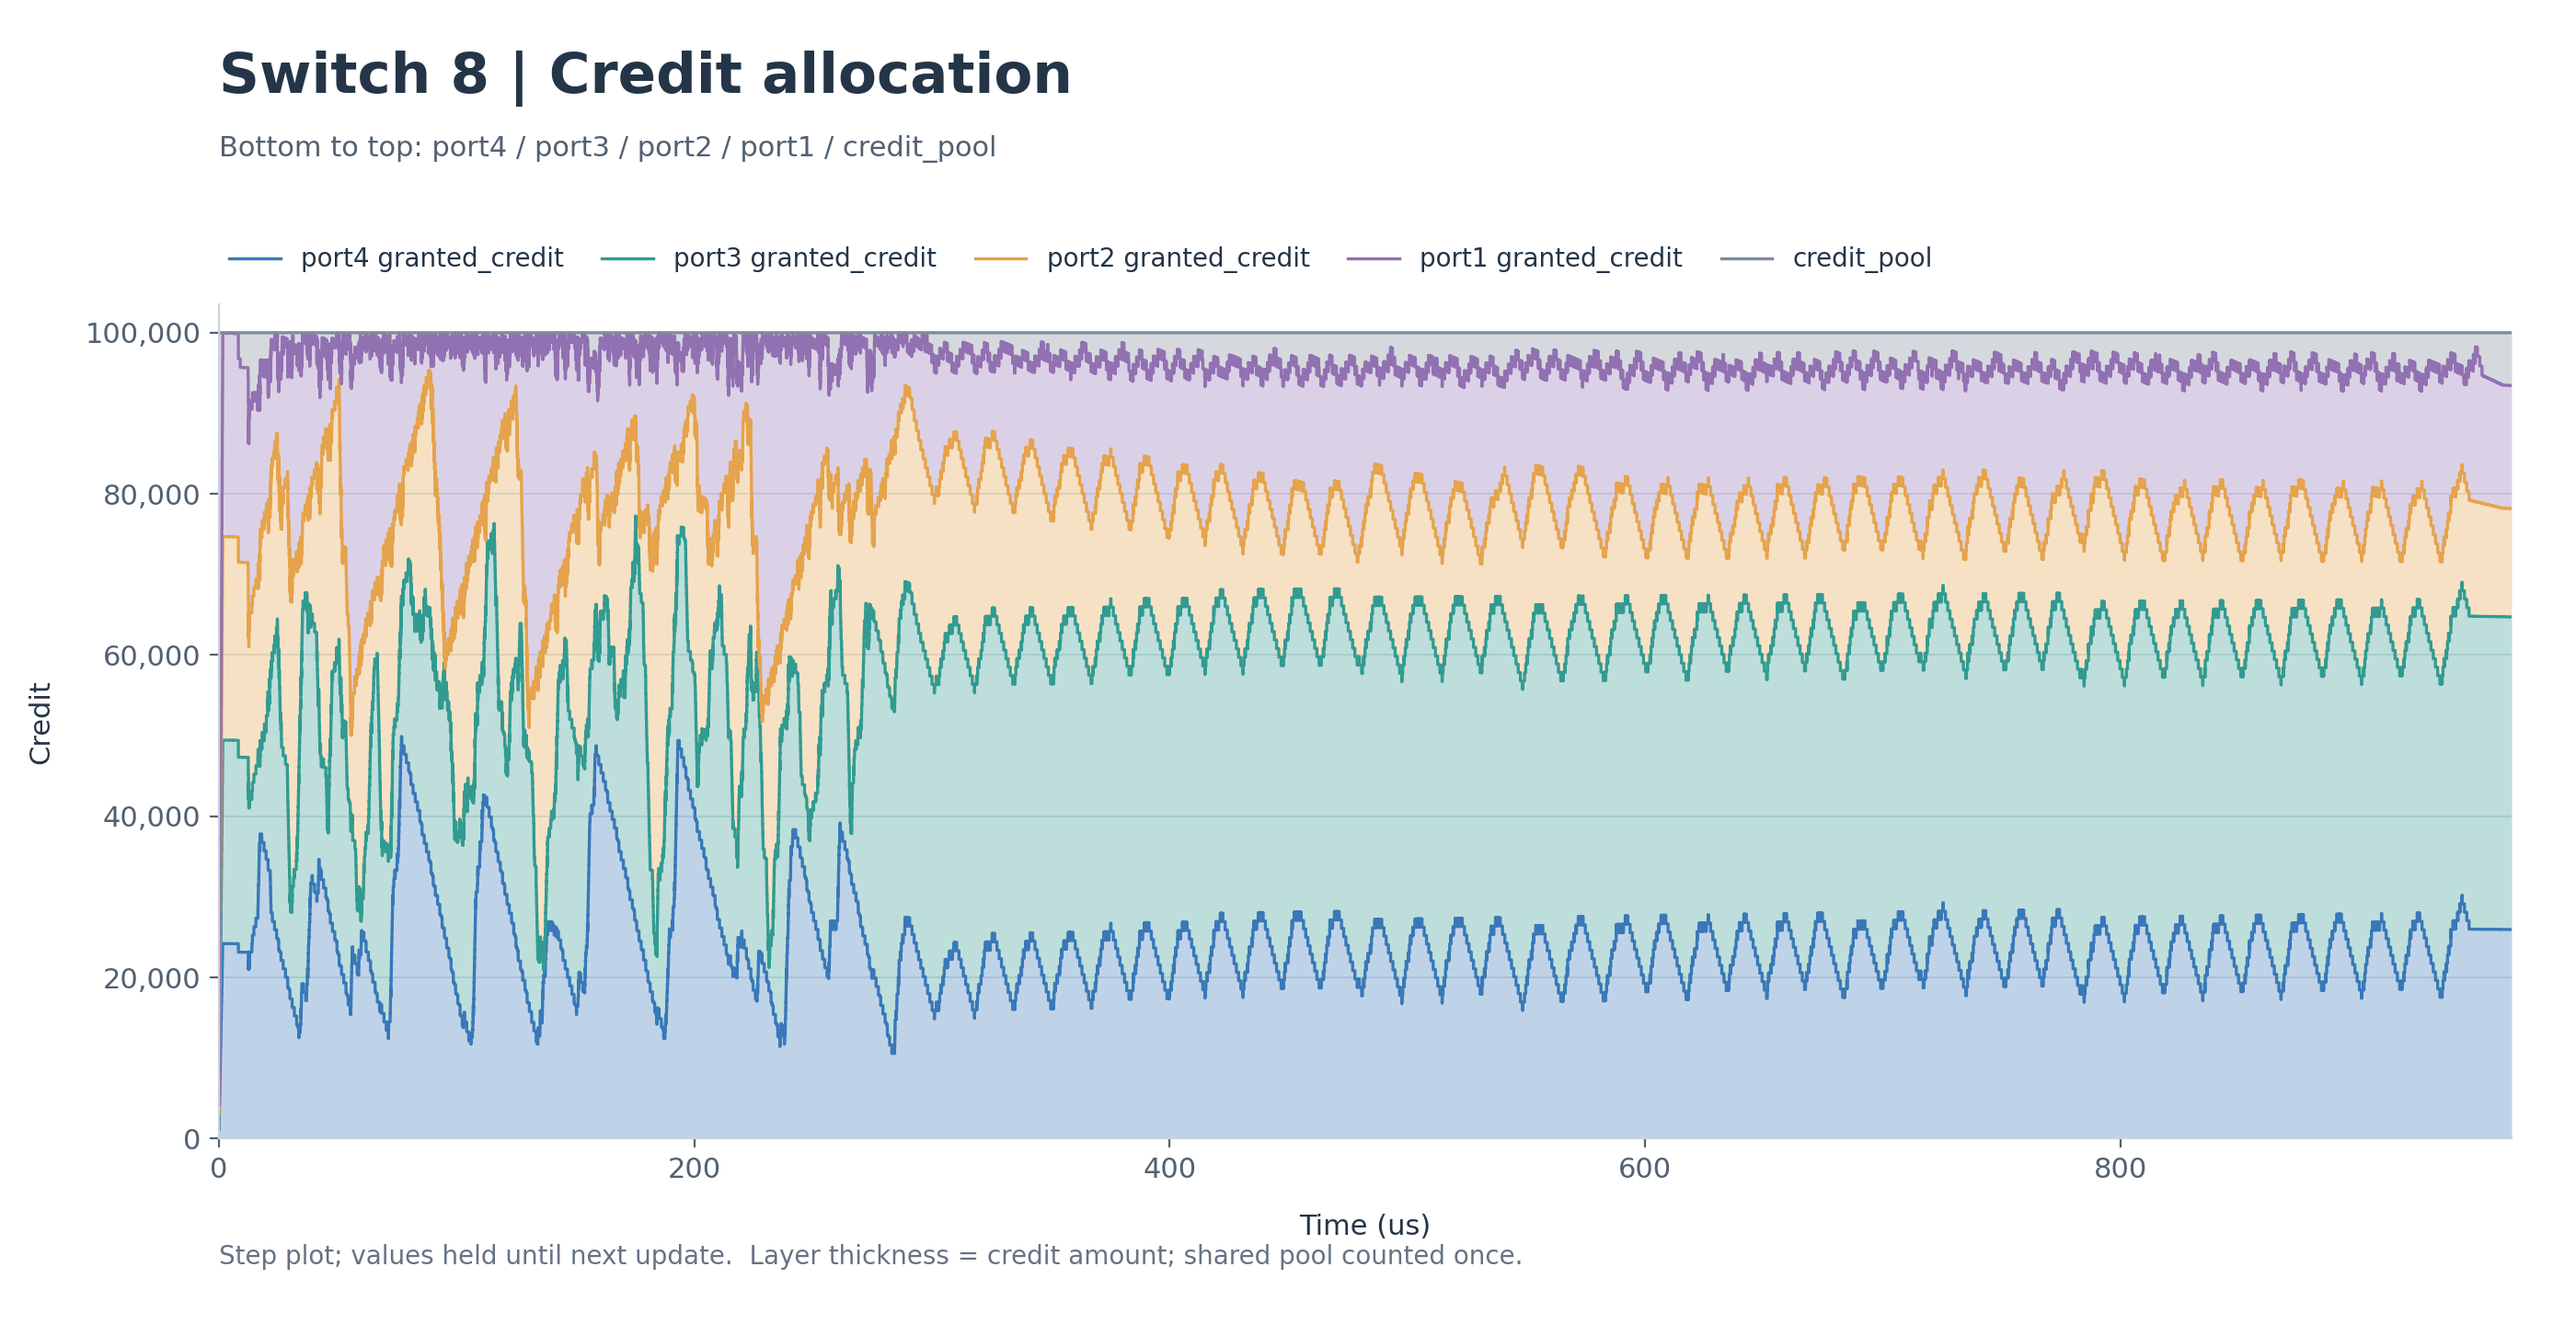
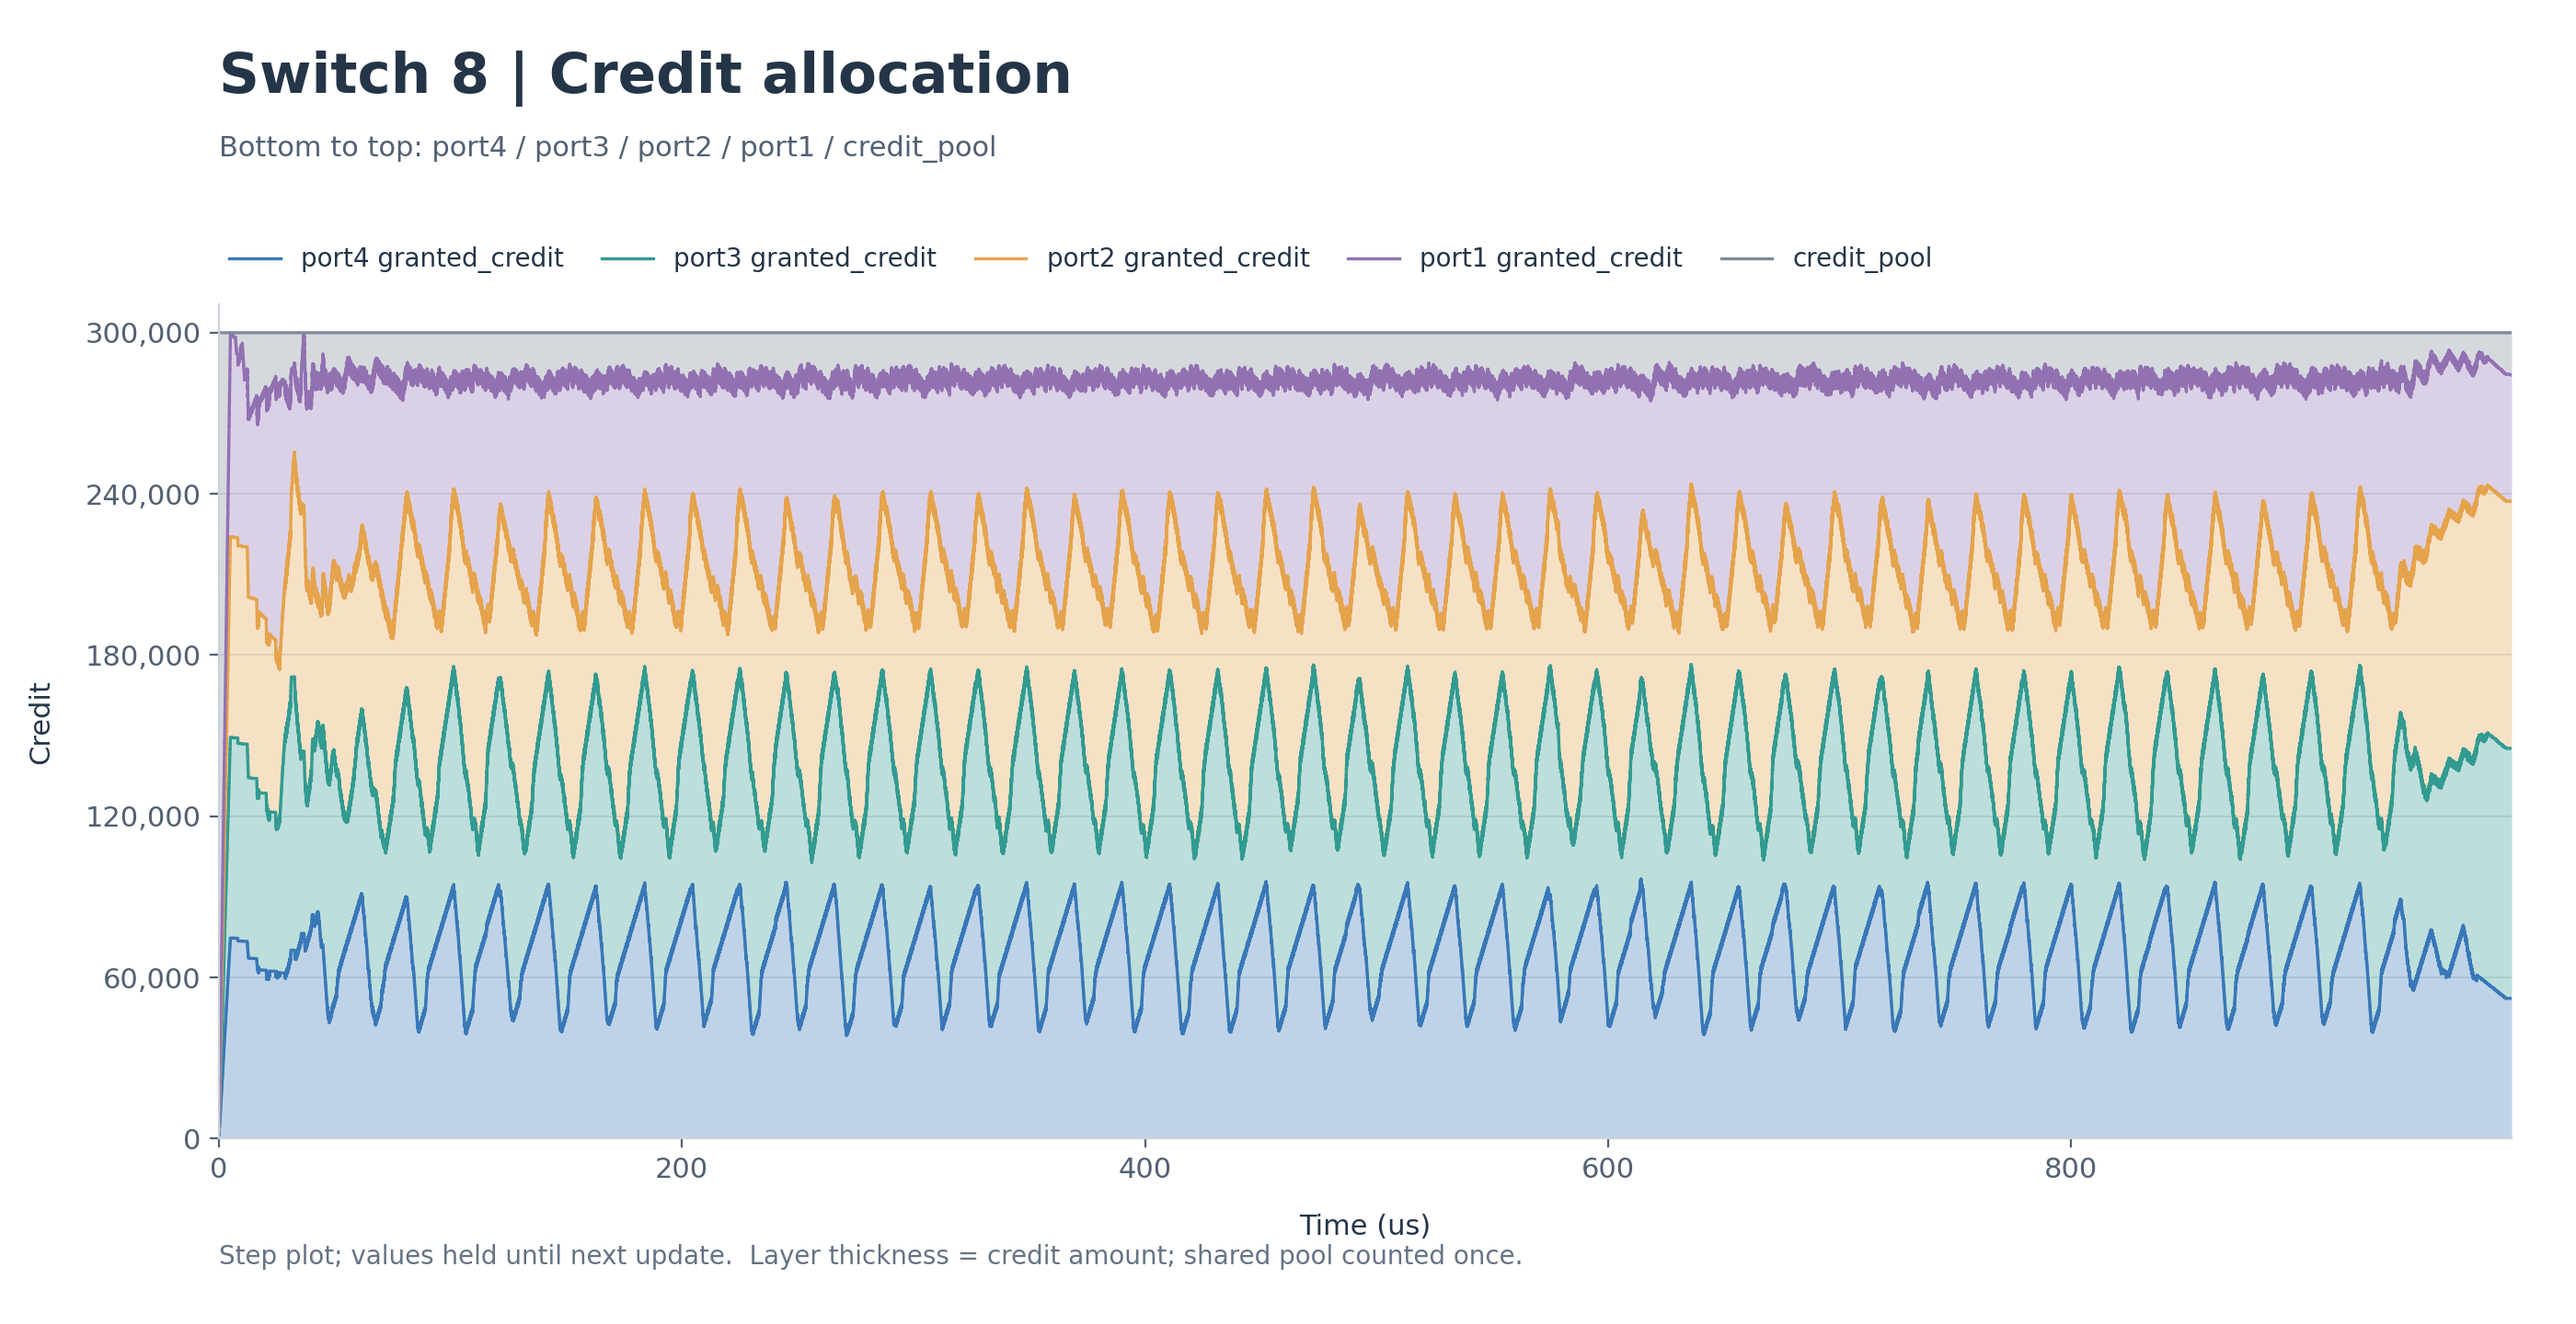
trival update

diff --git a/ns-3/simulator/ns-3-buffer-oversubscription/examples/SharedCredit-FC/2-star-topo/2-star-topo.cc b/ns-3/simulator/ns-3-buffer-oversubscription/examples/SharedCredit-FC/2-star-topo/2-star-topo.cc
@@ -33,7 +33,7 @@ NS_LOG_COMPONENT_DEFINE("GENERIC_SIMULATION");
 uint32_t cc_mode = 0;
 bool enable_qcn = true;
 uint32_t packet_payload_size = 1000, l2_chunk_size = 0, l2_ack_interval = 0;
-double simulator_stop_time = 3.01;
+double simulator_stop_time = 0.001;
 std::string data_rate, link_delay, topology_file, flow_file, trace_file, trace_output_file;
 std::string fct_output_file = "fct.txt";
 std::string pfc_output_file = "pfc.txt";
@@ -1607,7 +1607,7 @@ int main(int argc, char *argv[])
 	// uint32_t step_bytes = packet_size * 1;
 	// config switch
 	// The switch mmu runs Dynamic Thresholds (DT) by default.
-	buffer_size = (2 *100 * 2000 * 2 / 8);
+	buffer_size = (6 *100 * 2000 * 2 / 8);
 	std::cout << "buffer_size : " << buffer_size << std::endl;
 	for (uint32_t i = 0; i < node_num; i++) {
 		if (n.Get(i)->GetNodeType()) { // is switch
@@ -1629,14 +1629,13 @@ int main(int argc, char *argv[])
 					NS_ASSERT_MSG(rate2pmax.find(rate) != rate2pmax.end(), "must set pmax for each link speed");
 					sw->m_mmu->ConfigEcn(j, rate2kmin[rate], rate2kmax[rate], rate2pmax[rate]);
 					sw->m_mmu->maxThreshold = buffer_size;
-					sw->m_mmu->SetInflightThreshold(j, qu, packet_size * 2);
+					sw->m_mmu->SetInflightThreshold(j, qu, buffer_size); // inflight threshold初始值
 					// sw->m_mmu->step[j][qu] = step_bytes;
 				}
 			}
 			sw->m_mmu->SetQlenMax(qmax*packet_size);
 			sw->m_mmu->SetQlenMin(qmin*packet_size);
-			// sw->m_mmu->SetAiStep(packet_size / 2);
-			sw->m_mmu->SetBufferPool(buffer_size); //将buffer均分给每个port的每个queue
+			sw->m_mmu->SetBufferPool(buffer_size);
 			sw->m_mmu->node_id = sw->GetId();
 			
 		}

diff --git a/ns-3/simulator/ns-3-buffer-oversubscription/src/point-to-point/model/qbb-net-device.cc b/ns-3/simulator/ns-3-buffer-oversubscription/src/point-to-point/model/qbb-net-device.cc
@@ -487,12 +487,12 @@ QbbNetDevice::DequeueAndTransmit(void)
 			{
 				p->PeekHeader(ch);
 
+				m_node->SwitchNotifyDequeue(m_ifIndex, qIndex, p);
+
 				PppHeader ppp;
 				p->RemoveHeader(ppp);
-				ppp.SetCB(sw->m_mmu->fccl[m_ifIndex] - sw->m_mmu->fctbs[m_ifIndex]);
+				ppp.SetCB(sw->m_mmu->fccl[m_ifIndex] - sw->m_mmu->fctbs[m_ifIndex]); //携带本次发送消耗后的剩余credit
 				p->AddHeader(ppp);
-
-				m_node->SwitchNotifyDequeue(m_ifIndex, qIndex, p);
 
 				InterfaceTag t;
 				p->RemovePacketTag(t);

diff --git a/ns-3/simulator/ns-3-buffer-oversubscription/src/point-to-point/model/qbb-net-device.h b/ns-3/simulator/ns-3-buffer-oversubscription/src/point-to-point/model/qbb-net-device.h
@@ -77,7 +77,7 @@ class QbbNetDevice : public PointToPointNetDevice
 {
 public:
   void SetIdleReturnBytes(uint32_t bytes);
-  uint32_t m_idleReturnBytes = 10;//配置空闲情况心跳包回收的credit大小
+  uint32_t m_idleReturnBytes = 100;//配置空闲情况心跳包回收的credit大小
   uint32_t packetBytes;
   static const uint32_t qCnt = Q_CNT;	// Number of queues/priorities used
   enum HeartbeatProtocol : uint16_t
